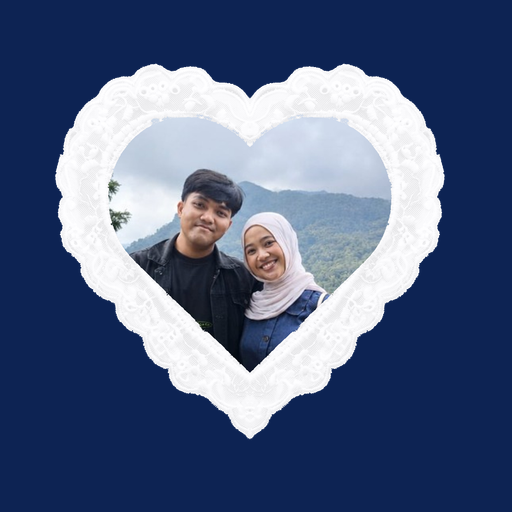
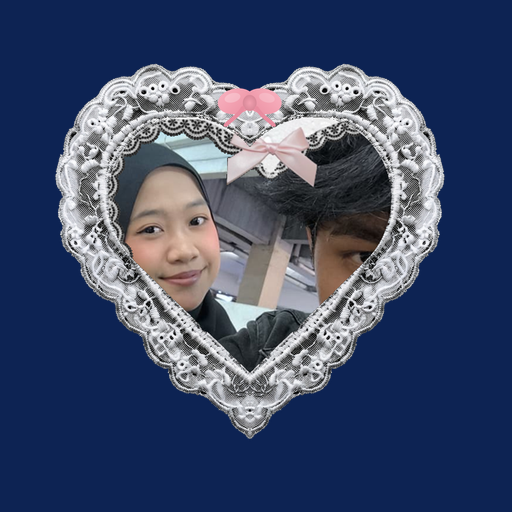
Frame Love: match reference with pink bow, dark lace detail, newest photo

diff --git a/scripts/deploy_all_clean_assets.js b/scripts/deploy_all_clean_assets.js
@@ -4,7 +4,8 @@ import path from 'path';
 
 async function deployAllCleanAssets() {
   const framePath = 'scripts/vintage_frame_raw.jpg';
-  const userPhotoPath = 'C:/Users/asusa/.gemini/antigravity-ide/brain/ecd504f4-b401-4ddc-9cb8-dd37e220ef74/.user_uploaded/media_1790316203910.jpg';
+  // NEWEST photo — user explicitly said "fotonya tetap jang terbaru, jangan ganti"
+  const userPhotoPath = 'C:/Users/asusa/.gemini/antigravity-ide/brain/ecd504f4-b401-4ddc-9cb8-dd37e220ef74/.user_uploaded/media_1790323812952.png';
 
   const { data: rawData, info } = await sharp(framePath).raw().toBuffer({ resolveWithObject: true });
   const w = info.width, h = info.height;
@@ -90,10 +91,9 @@ async function deployAllCleanAssets() {
     }
   }
 
-  // 4. Crop and center the couple photo (HD):
+  // 4. Read and crop user photo to fit heart shape
   const photo = await sharp(userPhotoPath)
-    .extract({ left: 245, top: 90, width: 540, height: 540 })
-    .resize(w, h, { fit: 'cover' })
+    .resize(w, h, { fit: 'cover', position: 'centre' })
     .ensureAlpha()
     .raw()
     .toBuffer();
@@ -107,6 +107,7 @@ async function deployAllCleanAssets() {
       const pixelIndex = y * w + x;
 
       if (isOutside[pixelIndex]) {
+        // Transparent outside
         out[idx] = 0;
         out[idx + 1] = 0;
         out[idx + 2] = 0;
@@ -115,6 +116,7 @@ async function deployAllCleanAssets() {
       }
 
       if (isInside[pixelIndex]) {
+        // Photo visible inside
         out[idx] = photo[idx];
         out[idx + 1] = photo[idx + 1];
         out[idx + 2] = photo[idx + 2];
@@ -122,34 +124,98 @@ async function deployAllCleanAssets() {
         continue;
       }
 
-      // In the lace:
-      // Pure clean white & silver-white embossed lace
-      // ZERO black / dark colors ("jangan ada warna hitamnya")
+      // LACE AREA — preserve original lace detail faithfully
+      // Match reference: white scalloped outer border with visible dark lace details
       const r = frameData[fidx];
       const g = frameData[fidx + 1];
       const b = frameData[fidx + 2];
       const brightness = (r + g + b) / 3;
 
-      const laceWhite = Math.round(230 + (brightness / 255) * 25);
-
-      out[idx] = laceWhite;
-      out[idx + 1] = laceWhite;
-      out[idx + 2] = Math.min(255, laceWhite + 2);
+      // Keep original lace tones — white stays white, dark patterns stay dark
+      // This matches the reference which shows clear black/dark lace detail inside white scallops
+      out[idx] = r;
+      out[idx + 1] = g;
+      out[idx + 2] = b;
       out[idx + 3] = 255;
     }
   }
 
-  // Generate Master HD Image
+  // Generate Master HD Image (without bow — we'll composite bow on top)
+  const masterNobow = await sharp(out, { raw: { width: w, height: h, channels: 4 } })
+    .png({ compressionLevel: 9 })
+    .toBuffer();
+
+  // 5. Create Pink Bow SVG and composite on top center
+  const bowWidth = Math.round(w * 0.16);
+  const bowHeight = Math.round(bowWidth * 0.62);
+  const bowSvg = `
+    <svg width="${bowWidth}" height="${bowHeight}" viewBox="0 0 120 74" xmlns="http://www.w3.org/2000/svg">
+      <defs>
+        <linearGradient id="bowLeft" x1="0%" y1="0%" x2="100%" y2="100%">
+          <stop offset="0%" stop-color="#F9B4C2"/>
+          <stop offset="50%" stop-color="#F2A0B0"/>
+          <stop offset="100%" stop-color="#E88DA0"/>
+        </linearGradient>
+        <linearGradient id="bowRight" x1="100%" y1="0%" x2="0%" y2="100%">
+          <stop offset="0%" stop-color="#F9B4C2"/>
+          <stop offset="50%" stop-color="#F2A0B0"/>
+          <stop offset="100%" stop-color="#E88DA0"/>
+        </linearGradient>
+        <radialGradient id="bowKnot" cx="50%" cy="50%" r="50%">
+          <stop offset="0%" stop-color="#F2A0B0"/>
+          <stop offset="100%" stop-color="#D88898"/>
+        </radialGradient>
+      </defs>
+      <!-- Left loop -->
+      <ellipse cx="36" cy="30" rx="32" ry="22" fill="url(#bowLeft)" transform="rotate(-12,36,30)"/>
+      <!-- Right loop -->
+      <ellipse cx="84" cy="30" rx="32" ry="22" fill="url(#bowRight)" transform="rotate(12,84,30)"/>
+      <!-- Center knot -->
+      <ellipse cx="60" cy="33" rx="12" ry="14" fill="url(#bowKnot)"/>
+      <!-- Left ribbon tail -->
+      <path d="M 48 42 C 38 58, 24 64, 18 72" stroke="#E88DA0" stroke-width="7" fill="none" stroke-linecap="round"/>
+      <!-- Right ribbon tail -->
+      <path d="M 72 42 C 82 58, 96 64, 102 72" stroke="#E88DA0" stroke-width="7" fill="none" stroke-linecap="round"/>
+      <!-- Subtle highlight on left loop -->
+      <ellipse cx="30" cy="24" rx="14" ry="8" fill="rgba(255,255,255,0.25)" transform="rotate(-15,30,24)"/>
+      <!-- Subtle highlight on right loop -->
+      <ellipse cx="90" cy="24" rx="14" ry="8" fill="rgba(255,255,255,0.2)" transform="rotate(15,90,24)"/>
+    </svg>
+  `;
+
+  const bowPng = await sharp(Buffer.from(bowSvg))
+    .png()
+    .toBuffer();
+
+  // Find the top center of the heart for bow placement
+  // The heart's top dip is around y ~75-110 area, x centered around axis
+  const bowLeft = Math.round(axis - bowWidth / 2);
+  const bowTop = Math.round(h * 0.10); // Place at the heart's top dip, overlapping the lace
+
   const masterHeartPath = 'public/heart_lace_hd.png';
-  await sharp(out, { raw: { width: w, height: h, channels: 4 } })
+  await sharp(masterNobow)
+    .composite([{
+      input: bowPng,
+      left: bowLeft,
+      top: bowTop
+    }])
     .png({ compressionLevel: 9 })
     .toFile(masterHeartPath);
 
-  // Copy to heart_lace_user.png and cover/ paths
+  // Copy to other paths
   fs.copyFileSync(masterHeartPath, 'public/heart_lace_user.png');
+  
+  // Ensure cover directory exists
+  if (!fs.existsSync('public/cover')) {
+    fs.mkdirSync('public/cover', { recursive: true });
+  }
   fs.copyFileSync(masterHeartPath, 'public/cover/heart_lace.png');
   fs.copyFileSync(masterHeartPath, 'public/cover/heart_lace_clean.png');
   console.log('Saved public/heart_lace_hd.png, heart_lace_user.png, cover/heart_lace.png');
+
+  // Also copy to root for backward compatibility
+  fs.copyFileSync(masterHeartPath, 'heart_lace_hd.png');
+  fs.copyFileSync(masterHeartPath, 'heart_lace_user.png');
 
   // Square icons with generous padding and royal blue background (#0d2353)
   // 512x512
@@ -238,4 +304,3 @@ async function deployAllCleanAssets() {
 }
 
 deployAllCleanAssets();
-

diff --git a/index.html b/index.html
@@ -9,8 +9,8 @@
     <meta property="og:type" content="website">
     <meta property="og:title" content="Special Birthday Gift - For My Darling ❤">
     <meta property="og:description" content="Special gift for special person. Happy Birthday! ❤">
-    <meta property="og:image" content="/og-image.png?v=vintage_ref">
-    <meta property="og:image:secure_url" content="/og-image.png?v=vintage_ref">
+    <meta property="og:image" content="/og-image.png?v=ref_bow_v2">
+    <meta property="og:image:secure_url" content="/og-image.png?v=ref_bow_v2">
     <meta property="og:image:type" content="image/png">
     <meta property="og:image:width" content="1200">
     <meta property="og:image:height" content="630">
@@ -20,7 +20,7 @@
     <meta name="twitter:card" content="summary_large_image">
     <meta name="twitter:title" content="Special Birthday Gift - For My Darling ❤">
     <meta name="twitter:description" content="Special gift for special person. Happy Birthday! ❤">
-    <meta name="twitter:image" content="/og-image.png?v=vintage_ref">
+    <meta name="twitter:image" content="/og-image.png?v=ref_bow_v2">
 
     <!-- PWA & Mobile Meta Tags -->
     <link rel="manifest" href="/manifest.webmanifest">
@@ -29,9 +29,9 @@
     <meta name="apple-mobile-web-app-capable" content="yes">
     <meta name="apple-mobile-web-app-status-bar-style" content="black-translucent">
     <meta name="apple-mobile-web-app-title" content="Birthday Gift">
-    <link rel="icon" type="image/png" sizes="192x192" href="/icon-192.png?v=vintage_ref">
-    <link rel="icon" type="image/png" sizes="512x512" href="/icon-512.png?v=vintage_ref">
-    <link rel="apple-touch-icon" sizes="180x180" href="/apple-touch-icon.png?v=vintage_ref">
+    <link rel="icon" type="image/png" sizes="192x192" href="/icon-192.png?v=ref_bow_v2">
+    <link rel="icon" type="image/png" sizes="512x512" href="/icon-512.png?v=ref_bow_v2">
+    <link rel="apple-touch-icon" sizes="180x180" href="/apple-touch-icon.png?v=ref_bow_v2">
     
     <!-- Google Fonts -->
     <link rel="preconnect" href="https://fonts.googleapis.com">

diff --git a/special_birthday_gift.html b/special_birthday_gift.html
@@ -529,7 +529,7 @@
         <!-- ============================================== -->
         <div class="cover-heart-section">
             <div class="cover-heart-box">
-                <img src="heart_lace_hd.png?v=vintage_ref" onerror="this.src='couple_main.jpg'" alt="Our Sweet Memory" style="width: 100%; height: 100%; object-fit: contain;">
+                <img src="heart_lace_hd.png?v=ref_bow_v2" onerror="this.src='couple_main.jpg'" alt="Our Sweet Memory" style="width: 100%; height: 100%; object-fit: contain;">
             </div>
 
             <!-- Sparkling Soft-Blue & Gold Stars beside Heart (NO PINK) -->

diff --git a/src/components/ScreenLanding.jsx b/src/components/ScreenLanding.jsx
@@ -186,7 +186,7 @@ export default function ScreenLanding({ onNext, config }) {
         >
           {!photoError ? (
             <img
-              src="/heart_lace_hd.png?v=vintage_ref"
+              src="/heart_lace_hd.png?v=ref_bow_v2"
               alt="Our Sweet Memory"
               onError={() => setPhotoError(true)}
               style={{
